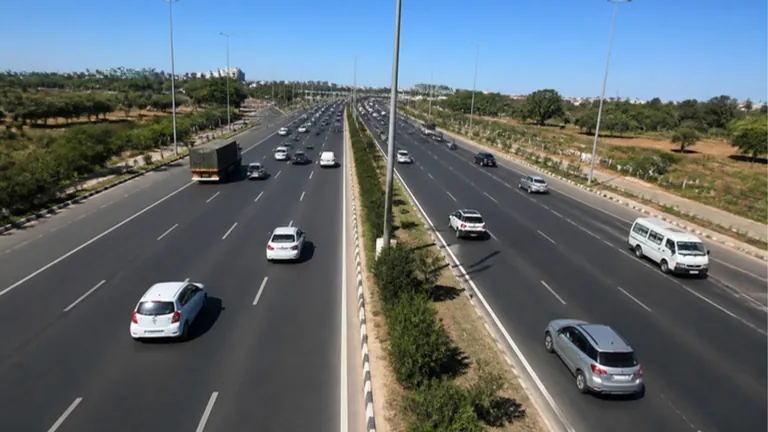
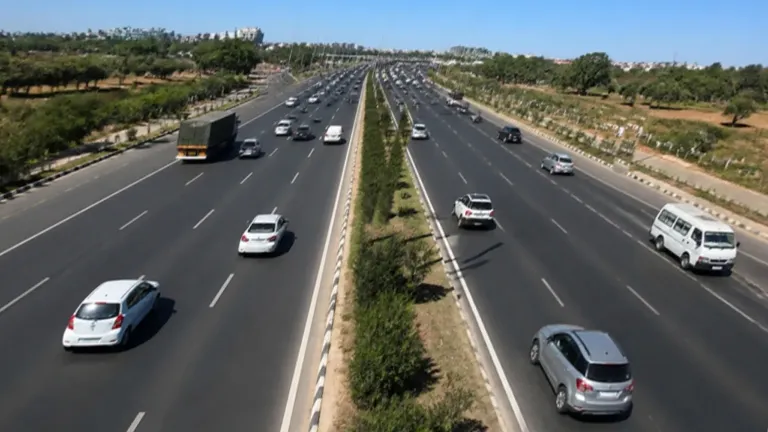
Analytics: day photo re-angled to match the night camera, detection boxes re-placed

diff --git a/components/analytics/AnalyticsDayNight.jsx b/components/analytics/AnalyticsDayNight.jsx
@@ -8,20 +8,20 @@ export default function AnalyticsDayNight() {
         <figure className="an-dn-card">
           <div className="an-dn-shot"><img decoding="async" src="/img/day-highway-sm.webp" srcSet="/img/day-highway-sm.webp 768w, /img/day-highway.webp 1536w" sizes="(min-width:1024.02px) 540px, (min-width:768.02px) 50vw, 100vw" alt="Daytime highway camera view with cars, a van and a truck (illustrative)" loading="lazy" width="768" height="432" />
             <span className="an-dn-scan" aria-hidden="true"></span>
-            <span className="an-dn-box big" style={{ 'left': '16.90%', 'top': '65.20%', 'width': '10.20%', 'height': '14.00%', 'animationDelay': '0.00s' }} aria-hidden="true"><i>Car · 0.97</i></span>
-            <span className="an-dn-box" style={{ 'left': '34.60%', 'top': '52.50%', 'width': '5.50%', 'height': '8.20%', 'animationDelay': '0.12s' }} aria-hidden="true"><i>Car · 0.95</i></span>
-            <span className="an-dn-box" style={{ 'left': '24.80%', 'top': '32.40%', 'width': '6.80%', 'height': '10.00%', 'animationDelay': '0.24s' }} aria-hidden="true"><i>Truck · 0.93</i></span>
-            <span className="an-dn-box rt" style={{ 'left': '81.70%', 'top': '50.40%', 'width': '10.60%', 'height': '13.60%', 'animationDelay': '0.36s' }} aria-hidden="true"><i>Van · 0.96 · 64 km/h</i></span>
-            <span className="an-dn-box rt" style={{ 'left': '70.80%', 'top': '74.00%', 'width': '13.00%', 'height': '17.40%', 'animationDelay': '0.48s' }} aria-hidden="true"><i>SUV · 0.94</i></span>
-            <span className="an-dn-box" style={{ 'left': '58.40%', 'top': '48.50%', 'width': '5.00%', 'height': '6.60%', 'animationDelay': '0.60s' }} aria-hidden="true"></span>
-            <span className="an-dn-box s" style={{ 'left': '32.20%', 'top': '37.60%', 'width': '2.60%', 'height': '4.00%', 'animationDelay': '0.72s' }} aria-hidden="true"></span>
-            <span className="an-dn-box s" style={{ 'left': '42.40%', 'top': '35.00%', 'width': '1.60%', 'height': '3.50%', 'animationDelay': '0.00s' }} aria-hidden="true"></span>
-            <span className="an-dn-box s" style={{ 'left': '35.80%', 'top': '34.00%', 'width': '1.80%', 'height': '3.40%', 'animationDelay': '0.12s' }} aria-hidden="true"></span>
-            <span className="an-dn-box s" style={{ 'left': '38.30%', 'top': '35.00%', 'width': '1.80%', 'height': '3.20%', 'animationDelay': '0.24s' }} aria-hidden="true"></span>
-            <span className="an-dn-box s" style={{ 'left': '67.50%', 'top': '40.50%', 'width': '3.80%', 'height': '4.20%', 'animationDelay': '0.36s' }} aria-hidden="true"></span>
-            <span className="an-dn-box s" style={{ 'left': '61.80%', 'top': '34.80%', 'width': '2.80%', 'height': '3.90%', 'animationDelay': '0.48s' }} aria-hidden="true"></span>
-            <span className="an-dn-box s" style={{ 'left': '51.50%', 'top': '34.60%', 'width': '2.10%', 'height': '3.20%', 'animationDelay': '0.60s' }} aria-hidden="true"></span>
-            <span className="an-dn-plate" style={{ 'left': '16.90%', 'top': '80.80%' }} aria-hidden="true">XX 00 AB 1234</span>
+            <span className="an-dn-box big" style={{ 'left': '7.66%', 'top': '64.68%', 'width': '13.82%', 'height': '16.79%', 'animationDelay': '0.00s' }} aria-hidden="true"><i>Car · 0.97</i></span>
+            <span className="an-dn-box" style={{ 'left': '30.67%', 'top': '49.56%', 'width': '7.48%', 'height': '9.74%', 'animationDelay': '0.12s' }} aria-hidden="true"><i>Car · 0.95</i></span>
+            <span className="an-dn-box" style={{ 'left': '22.50%', 'top': '25.87%', 'width': '9.19%', 'height': '11.75%', 'animationDelay': '0.24s' }} aria-hidden="true"><i>Truck · 0.93</i></span>
+            <span className="an-dn-box rt" style={{ 'left': '83.41%', 'top': '47.08%', 'width': '13.85%', 'height': '16.17%', 'animationDelay': '0.36s' }} aria-hidden="true"><i>Van · 0.96 · 64 km/h</i></span>
+            <span className="an-dn-box rt" style={{ 'left': '67.09%', 'top': '75.21%', 'width': '17.29%', 'height': '21.00%', 'animationDelay': '0.48s' }} aria-hidden="true"><i>SUV · 0.94</i></span>
+            <span className="an-dn-box" style={{ 'left': '58.39%', 'top': '44.83%', 'width': '6.60%', 'height': '7.82%', 'animationDelay': '0.60s' }} aria-hidden="true"></span>
+            <span className="an-dn-box s" style={{ 'left': '30.94%', 'top': '31.98%', 'width': '3.54%', 'height': '4.71%', 'animationDelay': '0.72s' }} aria-hidden="true"></span>
+            <span className="an-dn-box s" style={{ 'left': '42.87%', 'top': '28.92%', 'width': '2.32%', 'height': '4.11%', 'animationDelay': '0.00s' }} aria-hidden="true"></span>
+            <span className="an-dn-box s" style={{ 'left': '35.63%', 'top': '27.75%', 'width': '2.54%', 'height': '3.99%', 'animationDelay': '0.12s' }} aria-hidden="true"></span>
+            <span className="an-dn-box s" style={{ 'left': '38.31%', 'top': '28.92%', 'width': '2.51%', 'height': '3.76%', 'animationDelay': '0.24s' }} aria-hidden="true"></span>
+            <span className="an-dn-box s" style={{ 'left': '70.15%', 'top': '35.39%', 'width': '4.87%', 'height': '4.95%', 'animationDelay': '0.36s' }} aria-hidden="true"></span>
+            <span className="an-dn-box s" style={{ 'left': '64.62%', 'top': '28.69%', 'width': '3.71%', 'height': '4.58%', 'animationDelay': '0.48s' }} aria-hidden="true"></span>
+            <span className="an-dn-box s" style={{ 'left': '53.19%', 'top': '28.45%', 'width': '2.83%', 'height': '3.76%', 'animationDelay': '0.60s' }} aria-hidden="true"></span>
+            <span className="an-dn-plate" style={{ 'left': '7.39%', 'top': '83.39%' }} aria-hidden="true">XX 00 AB 1234</span>
             <span className="an-dn-tag" aria-hidden="true"><b></b>Day · live</span></div>
           <figcaption><b>Day</b><span>Plate, class and speed from the gantry and roadside cameras.</span></figcaption>
         </figure>
